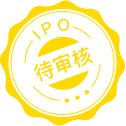
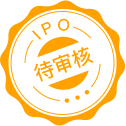
5/28爽

diff --git a/frontend/src/views/ipoCase/ipoCaseList.vue b/frontend/src/views/ipoCase/ipoCaseList.vue
@@ -843,8 +843,8 @@
     },
     mounted() {
       // 日志
-      // this.tenantInfo = this.$route.query['tenant_info'];
-      this.tenantInfo = this.$store.state.app.info;
+      this.tenantInfo = this.$route.query['tenant_info'];
+      // this.tenantInfo = this.$store.state.app.info;
       this.tableLoading = true;
       const _data = {
         startRow: 0,
@@ -1308,7 +1308,13 @@
             name: 'caseDetail',
             query: {caseId: caseId, access_token: _self.$store.state.app.token,tenant_info:_self.$store.state.app.info}
           });
-          console.log('1111',href + '&tenant_info=' + this.tenantInfo);
+          // 日志---------------------头
+          let param = {
+              recordType:'open',//跳转页面方式:
+              recordTab:"IPO案例详情页"//跳转tab
+            }
+            this.$store.commit('CREATE_TEMP_MESSAGE',param);
+           // 日志---------------------尾
           window.open(href + '&tenant_info=' + this.tenantInfo, '_blank');
         } else {
           let url = window.location.href;
@@ -1747,7 +1753,7 @@
   /* 是否通过 */
   .zhbjResult{
      font-size: 12px;
-     color: #FF9900;
+     color:  #f9b162;
      padding:5px;
      padding-left: 10px;
      line-height:10px;
@@ -1757,7 +1763,7 @@
 }
 .whtgResult{
      font-size: 12px;
-     color: #FE5461;
+     color: #ea5365;
      padding:5px;
      padding-left: 10px;
      line-height:10px;
@@ -1767,7 +1773,7 @@
 }
 .wtgResult{
     font-size: 12px;
-    color: #FE5461;
+    color: #ea5365;
     padding: 5px;
     padding-left: 10px;
     line-height: 10px;
@@ -1778,7 +1784,7 @@
 }
 .htgResult{
      font-size: 12px;
-     color: #14BCF5;
+     color: #4ec8e5;
      padding:5px;
      padding-left: 10px;
      line-height:10px;
@@ -1788,7 +1794,7 @@
 }
 .zcsxResult{
    font-size: 12px;
-     color: #14BCF5;
+     color: #4ec8e5;
      padding:5px;
      padding-left: 10px;
      line-height:10px;
@@ -1798,7 +1804,7 @@
 }
 .tgResult{
      font-size: 13px;
-     color: #14BCF5;
+     color: #4ec8e5;
      padding:5px;
      padding-left: 10px;
      line-height:10px;
@@ -1808,7 +1814,7 @@
 }
 .qxshResult{
      font-size: 12px;
-     color: #94A3B4;
+     color: #aabfe2;
      padding:5px;
      padding-left: 10px;
      line-height:10px;
@@ -1818,7 +1824,7 @@
 }
 .dshResult{
      font-size: 12px;
-     color: #ffd800;
+     color: #f98962;
      padding:5px;
      padding-left: 10px;
      padding-right: 6px;

diff --git a/frontend/src/store/modules/app.js b/frontend/src/store/modules/app.js
@@ -7,15 +7,27 @@ const app = {
     },
     language: Cookies.get('language') || 'en',
     parentCookie:{
+      client_type:'',//手机或pc
+      recordType:'',//跳转页面方式:
+      recordModule:'',//跳转模块
+      recordTab:"",//跳转tab
+      recordTabChild:"",//跳转子集tab
+      popTitle:null,//弹窗title
       title:null,
-      target:null,
-      type:null,
-    },//易董记录用户操作功能
+      eventTargetText:null
+    },
+    // parentCookie:{
+    //   title:null,
+    //   target:null,
+    //   type:null,
+    // },//易董记录用户操作功能
     parentCookieFlag:false,
     token:null,
     info:null,
     companyId:null,
-    caseId:null
+    caseId:null,
+    temporaryUpdateFlag:false, //临时修改Cookie标志 一般用来列表页进详情页
+    tempParentCookie:{},// 临时记录cookie
   },
   mutations: {
     TOGGLE_SIDEBAR: state => {
@@ -31,10 +43,9 @@ const app = {
       Cookies.set('language', language)
     },
     SET_PARENT_COOKIE: (state,data)=>{
-        state.parentCookie.title = data.title;
-        state.parentCookie.target = data.target;
-        state.parentCookie.type = data.type;
-    },
+      state.parentCookie.title = data.title;
+      state.parentCookie.eventTargetText = data.target;
+  },
     SET_PARENT_COOKIE_FLAG: (state,data)=>{
       state.parentCookieFlag = data;
     },
@@ -47,13 +58,22 @@ const app = {
       state.companyId = data.companyId;
       state.caseId = data.caseId;
     },
-    // 添加日志功能
+    // 添加日志功能1
     CREATE_MESSAGE: (state,data) => {
       Object.keys(data).map((obj)=>{
         state.parentCookie[obj] = data[obj]
       })
-  },
-
+    },
+    SET_TEMPORARY_UPDATE_FLAGg: (state,data)=>{
+      state.temporaryUpdateFlag = data;
+    },
+    CREATE_TEMP_MESSAGE: (state,data) => {
+      state.temporaryUpdateFlag = true; 
+      state.tempParentCookie = JSON.parse(JSON.stringify(state.parentCookie));
+      Object.keys(data).map((obj)=>{
+        state.tempParentCookie[obj] = data[obj]
+      })
+    }
   },
   actions: {
     toggleSideBar({commit}) {

diff --git a/frontend/src/views/navMenu/processTree/index.vue b/frontend/src/views/navMenu/processTree/index.vue
@@ -687,7 +687,7 @@ export default {
     position: relative;
     left: 38%;
     top: -20px;
-    color: #14BCF5;
+    color: #4ec8e5;
     padding:5px;
     padding-left: 10px;
     padding-right: 7px;
@@ -700,7 +700,7 @@ export default {
     position: relative;
     left: 38%;
     top: -20px;
-    color: #FE5461;
+    color: #ea5365;
     padding: 5px;
     padding-left: 10px;
     padding-right: 7px;
@@ -712,7 +712,7 @@ export default {
     position: relative;
     left: 38%;
     top: -20px;
-    color: #14BCF5;
+    color: #4ec8e5 ;
     padding:5px;
     padding-left: 10px;
     padding-right: 7px;
@@ -724,7 +724,7 @@ export default {
     position: relative;
     left: 38%;
     top: -20px;
-    color: #FE5461;
+    color: #ea5365;
     padding:5px;
     padding-left: 10px;
     padding-right: 7px;
@@ -736,7 +736,7 @@ export default {
     position: relative;
     left: 38%;
     top: -20px;
-    color: #FF9900;
+    color: #f9b162;
     padding:5px;   
      padding-left: 10px;
     padding-right: 7px;
@@ -748,9 +748,9 @@ export default {
     position: relative;
     left: 38%;
     top: -20px;
-    color: #94A3B4;
+    color: #aabfe2;
     padding:5px;
-        padding-left: 10px;
+    padding-left: 10px;
     padding-right: 7px;
     line-height:10px;
     display:inline-block;
@@ -760,7 +760,7 @@ export default {
     position: relative;
     left: 38%;
     top: -20px;
-    color: #ffd800;
+    color: #f98962;
     padding:5px;
     padding-left: 10px;
     padding-right: 7px;

diff --git a/frontend/src/views/navMenu/result/result.vue b/frontend/src/views/navMenu/result/result.vue
@@ -1514,7 +1514,7 @@ export default {
 }
 .zhbjResult{
      font-size: 12px;
-     color: #FF9900;
+     color: #f9b162;
      padding:5px;
      line-height:10px;
     padding-left: 10px;
@@ -1525,7 +1525,7 @@ export default {
 }
 .whtgResult{
      font-size: 12px;
-     color: #FE5461;
+     color: #ea5365;
      padding:5px;
      line-height:10px;
     padding-left: 10px;
@@ -1536,7 +1536,7 @@ export default {
 }
 .htgResult{
      font-size: 12px;
-     color: #14BCF5;
+     color: #4ec8e5;
      padding:5px;
      padding-left: 10px;
     padding-right: 7px;
@@ -1547,7 +1547,7 @@ export default {
 }
 .tgResult{
      font-size: 12px;
-     color: #14BCF5;
+     color: #4ec8e5;
      padding:5px;
      line-height:10px;
      display:inline-block;
@@ -1558,7 +1558,7 @@ export default {
 }
 .wtgResult{
      font-size: 12px;
-     color: #FE5461;
+     color: #ea5365;
      padding:5px;
      line-height:10px;
      display:inline-block;
@@ -1569,7 +1569,7 @@ export default {
 }
 .qxshResult{
      font-size: 12px;
-     color: #94A3B4;
+     color: #aabfe2;
      padding:5px;
      padding-left: 10px;
     padding-right: 7px;
@@ -1580,7 +1580,7 @@ export default {
 }
 .dshResult{
      font-size: 12px;
-     color: #ffd800;
+     color: #f98962;
      padding:5px;
      padding-left: 10px;
     padding-right: 7px;

diff --git a/frontend/src/main.js b/frontend/src/main.js
@@ -13,7 +13,7 @@ import '@/styles/index.scss' // global css
 import App from './App'
 import router from './router'
 import store from './store'
-
+import request from '@/utils/request'
 import i18n from './lang' // Internationalization
 import './icons' // icon
 import './errorLog' // error log
@@ -55,7 +55,23 @@ Vue.use(Element, {
 Object.keys(filters).forEach(key => {
   Vue.filter(key, filters[key])
 })
-
+// 日志-----头
+Vue.prototype.$open = function(url){
+  url = url||null;
+  // debugger
+  let data = store.state.app.parentCookie;
+  if(store.state.app.temporaryUpdateFlag){//如果使用临时Cookie
+    data = store.state.app.tempParentCookie;
+    store.commit('SET_TEMPORARY_UPDATE_FLAGg',false);
+  }
+  request({
+    url: '/log/collect',
+    method: 'post',
+    data:data
+  })
+  return window.open(url)
+}
+// 日志-----尾
 Vue.config.productionTip = false
 
 new Vue({

diff --git a/frontend/src/utils/request.js b/frontend/src/utils/request.js
@@ -17,6 +17,19 @@ service.interceptors.request.use(
       if(config.responseType == 'blob'){
     	  //设置全局加载
         showFullScreenLoading();
+        // 日志-------------------头
+        if(store.state.app.parentCookieFlag && config.url != '/log/collect'){
+          // iframeDoMessage(window.parent,'microServiceCallBack',[store.state.app.parentCookie]);
+          // console.log(store.state.app.parentCookie)
+          service({
+              url: '/log/collect',
+              method: 'post',
+              //controller接收用 @requestbody
+              data: store.state.app.parentCookie
+          })
+          store.commit('SET_PARENT_COOKIE_FLAG',false)
+        }
+        // 日志-------------------尾
         config.timeout = 180000;
       }
       // Do something before request is sent

diff --git a/frontend/src/styles/element-ui.scss b/frontend/src/styles/element-ui.scss
@@ -450,12 +450,12 @@
   font-weight: bold
 }
 // 前五名供应商用户表格最后一行合计
-// .theTopFiveKh table tr:last-of-type{
-//   font-weight: bold
-// }
-// .theTopFiveSupplier table tr:last-of-type{
-//   font-weight: bold
-// }
+.theTopFiveKh table tr:last-of-type{
+  font-weight: bold
+}
+.theTopFiveSupplier table tr:last-of-type{
+  font-weight: bold
+}
 #componentId .el-checkbox-button.is-focus .el-checkbox-button__inner {
   border-color: #e2e2e2;
   border-left-color:#e2e2e2 

diff --git a/frontend/src/views/financeStatistics/ipo.vue b/frontend/src/views/financeStatistics/ipo.vue
@@ -383,8 +383,8 @@ export default {
   },
   mounted(){
       // 日志--------------------功能头
-      // this.tenantInfo = this.$route.query['tenant_info'];
-      this.tenantInfo = this.$store.state.app.info;
+      this.tenantInfo = this.$route.query['tenant_info'];
+      // this.tenantInfo = this.$store.state.app.info;
        // 日志------------------功能尾
   },
   methods: {

diff --git a/frontend/src/store/ipoData.js b/frontend/src/store/ipoData.js
@@ -71,6 +71,10 @@ const ipo = {
     SET_TOKEN: (state, code) => {
       state.caseId = code
     },
+    // 存日志
+    CREATE_MESSAGE: (state, code) => {
+      state.info = code
+    },
   },
 
   actions: {
